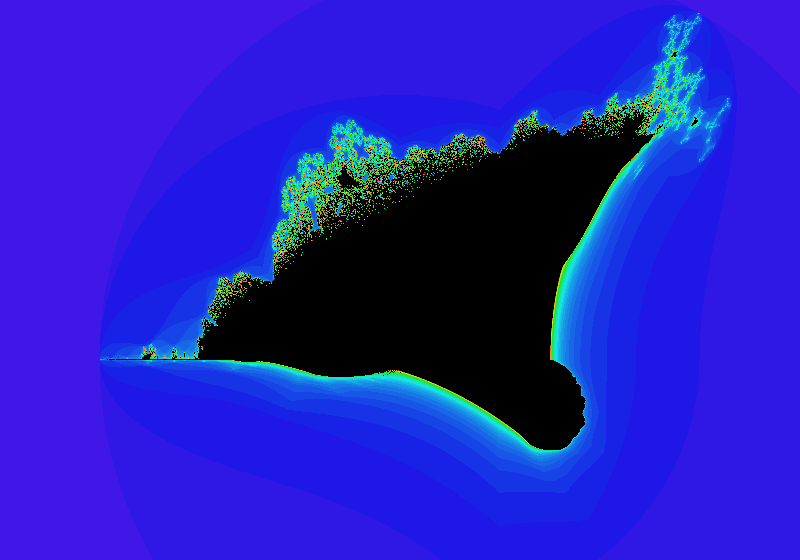
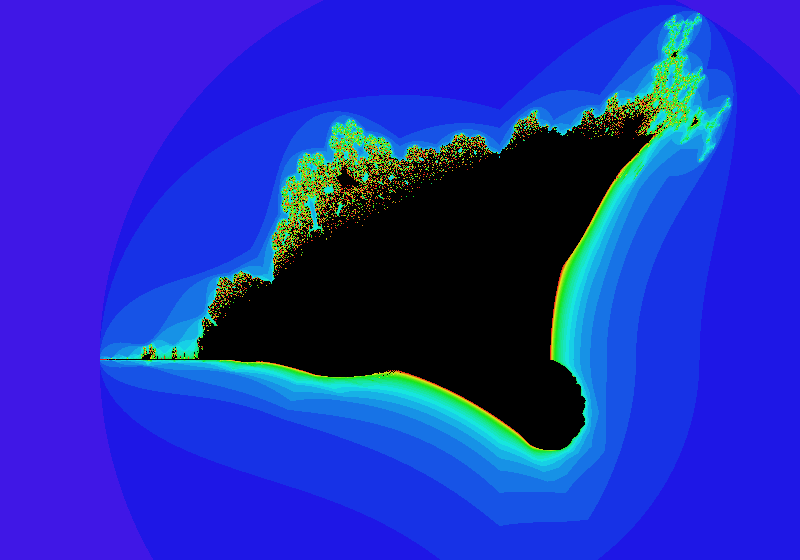
add different coloring modes

diff --git a/src/main/java/plotter/FractalPlotter.java b/src/main/java/plotter/FractalPlotter.java
@@ -17,27 +17,29 @@ public class FractalPlotter
 
 	public void plot(FractalEquation fractalEquation, int maxIterations, String fileName) throws IOException
 	{
-		plot(fractalEquation.recommendedCanvas, fractalEquation, maxIterations, fileName);
+		plot(fractalEquation, fractalEquation.recommendedCanvas, fractalEquation.recommendedColorMode, maxIterations, fileName);
 	}
 
-	public void plot(FractalCanvas fractalCanvas, FractalEquation fractalEquation, int maxIterations, String filename) throws IOException
+	public void plot(FractalEquation fractalEquation, FractalCanvas fractalCanvas, ColorMode colorMode, int maxIterations, String filename) throws IOException
 	{
 		BufferedImage bufferedImage = new BufferedImage(fractalCanvas.imageWidthPixels, fractalCanvas.imageHeightPixels, BufferedImage.TYPE_INT_RGB);
 
-		colourCanvasByDivergenceSpeed(fractalCanvas, fractalEquation, maxIterations, bufferedImage);
+		colourCanvasByDivergenceSpeed(fractalCanvas, fractalEquation, colorMode, maxIterations, bufferedImage);
 
 		writeFile(filename, bufferedImage);
 
 		bufferedImage.flush();
 	}
 
-	private void colourCanvasByDivergenceSpeed(FractalCanvas fractalCanvas, FractalEquation fractalEquation, int maxIterations, BufferedImage bufferedImage)
+	private void colourCanvasByDivergenceSpeed(FractalCanvas fractalCanvas, FractalEquation fractalEquation, ColorMode colorMode, int maxIterations, BufferedImage bufferedImage)
 	{
 		double coordinateX;
 		double coordinateY;
 		int pixelX;
 		int pixelY;
 		Complex c;
+
+		ColorSetter colorSetter = new ColorSetter(colorMode);
 
 		for (coordinateX = fractalCanvas.minX; coordinateX <= fractalCanvas.maxX; coordinateX += fractalCanvas.gridResolution)
 		{
@@ -53,7 +55,7 @@ public class FractalPlotter
 				//on a scale of 0 - 1
 				double divergenceSpeed = 1 - ((double) iterations / (double) maxIterations);
 
-				bufferedImage.setRGB(pixelX, pixelY, getColor(divergenceSpeed).getRGB());
+				bufferedImage.setRGB(pixelX, pixelY, colorSetter.determinePixelRGB(divergenceSpeed));
 			}
 		}
 	}
@@ -74,7 +76,7 @@ public class FractalPlotter
 			return Color.BLACK;
 		}
 
-		double hue = scaleZeroToOne * 0.7; // the 0.7 means we are using hues between red (0) and blue (0.7)
+		double hue = (scaleZeroToOne * scaleZeroToOne) * 0.7; // the 0.7 means we are using hues between red (0) and blue (0.7)
 
 		return Color.getHSBColor((float) hue, (float) 0.9, (float) 0.9);
 	}

diff --git a/src/main/java/plotter/ColorSetter.java b/src/main/java/plotter/ColorSetter.java
@@ -1,0 +1,45 @@
+package plotter;
+
+import java.awt.Color;
+
+public class ColorSetter
+{
+	//if z does not diverge into chaotic behaviour within the max iterations,
+	// it is said it is part of the 'set'
+	public Color isInSetColor = Color.BLACK;
+	public ColorMode colorMode;
+
+	public ColorSetter(ColorMode colorMode)
+	{
+		this.colorMode = colorMode;
+	}
+
+	public int determinePixelRGB(double divergenceSpeed)
+	{
+		return determinePixelColor(divergenceSpeed).getRGB();
+	}
+
+	public Color determinePixelColor(double divergenceSpeed)
+	{
+		if (colorMode != null)
+		{
+			double hue;
+			switch (colorMode)
+			{
+				default:
+				case Binary:
+					if (divergenceSpeed == 0) return Color.BLACK;
+					else return Color.WHITE;
+				case ByDivergenceSpeed:
+					if (divergenceSpeed == 0) return isInSetColor;
+					hue = divergenceSpeed * 0.7; // the 0.7 means we are using hues between red (0) and blue (0.7)
+					break;
+				case ByDivergenceSpeedSquared:
+					if (divergenceSpeed == 0) return isInSetColor;
+					hue = (divergenceSpeed * divergenceSpeed) * 0.7; // the 0.7 means we are using hues between red (0) and blue (0.7)
+			}
+			return Color.getHSBColor((float) hue, (float) 0.9, (float) 0.9);
+		}
+		return null;
+	}
+}

diff --git a/src/main/java/App.java b/src/main/java/App.java
@@ -1,6 +1,10 @@
 import java.io.IOException;
 
+import org.apache.commons.math3.complex.Complex;
+
 import equations.BurningShip;
+import equations.Julia;
+import equations.Mandelbrot;
 import plotter.FractalPlotter;
 
 public class App
@@ -11,9 +15,9 @@ public class App
 
 		try
 		{
-//			fractalPlotter.plot(new Mandelbrot(), 50, "outputs/mandelbrot.png");
+			fractalPlotter.plot(new Mandelbrot(), 50, "outputs/mandelbrot.png");
 
-//			fractalPlotter.plot(new JuliaSet(new Complex(-0.8, 0.2)), 50, "outputs/julia.png");
+			fractalPlotter.plot(new Julia(new Complex(-0.8, 0.2)), 50, "outputs/julia.png");
 
 			fractalPlotter.plot(new BurningShip(), 50, "outputs/burning_ship.png");
 		}

diff --git a/src/main/java/equations/FractalEquation.java b/src/main/java/equations/FractalEquation.java
@@ -2,6 +2,7 @@ package equations;
 
 import org.apache.commons.math3.complex.Complex;
 
+import plotter.ColorMode;
 import plotter.FractalCanvas;
 
 public abstract class FractalEquation
@@ -10,6 +11,8 @@ public abstract class FractalEquation
 
 	//this is the value at which the divergence threshold is passed
 	public int chaoticThreshold = 2;
+
+	public ColorMode recommendedColorMode = ColorMode.ByDivergenceSpeed;
 
 	// returns the number of iterations needed to escape past the threshold,
 	// or maxIterations if it did not

diff --git a/src/main/java/equations/BurningShip.java b/src/main/java/equations/BurningShip.java
@@ -2,6 +2,7 @@ package equations;
 
 import org.apache.commons.math3.complex.Complex;
 
+import plotter.ColorMode;
 import plotter.FractalCanvas;
 
 // https://en.wikipedia.org/wiki/Burning_Ship_fractal
@@ -10,6 +11,7 @@ public class BurningShip extends FractalEquation
 	public BurningShip()
 	{
 		this.recommendedCanvas = new FractalCanvas(-2.5, 1.5, -1.8, 1, 0.005);
+		this.recommendedColorMode = ColorMode.ByDivergenceSpeedSquared;
 	}
 
 	@Override

diff --git a/src/main/java/equations/Julia.java b/src/main/java/equations/Julia.java
@@ -2,6 +2,7 @@ package equations;
 
 import org.apache.commons.math3.complex.Complex;
 
+import plotter.ColorMode;
 import plotter.FractalCanvas;
 
 // z is initially given by the complex coordinate.
@@ -17,6 +18,7 @@ public class Julia extends FractalEquation
 	{
 		this.polynomial = polynomial;
 		this.recommendedCanvas = new FractalCanvas(-2, 2, -1, 1, 0.0005);
+		this.recommendedColorMode = ColorMode.ByDivergenceSpeedSquared;
 	}
 
 	@Override

diff --git a/src/main/java/equations/Mandelbrot.java b/src/main/java/equations/Mandelbrot.java
@@ -2,6 +2,7 @@ package equations;
 
 import org.apache.commons.math3.complex.Complex;
 
+import plotter.ColorMode;
 import plotter.FractalCanvas;
 
 // The Mandelbrot Set is given by the equation
@@ -13,6 +14,7 @@ public class Mandelbrot extends FractalEquation
 	public Mandelbrot()
 	{
 		this.recommendedCanvas = new FractalCanvas(-2.3, 1, -1.3, 1.3, 0.005);
+		this.recommendedColorMode = ColorMode.ByDivergenceSpeed;
 	}
 
 	@Override

diff --git a/src/main/java/plotter/ColorMode.java b/src/main/java/plotter/ColorMode.java
@@ -1,0 +1,8 @@
+package plotter;
+
+public enum ColorMode
+{
+	Binary,
+	ByDivergenceSpeed,
+	ByDivergenceSpeedSquared
+}

diff --git a/README.md b/README.md
@@ -1,6 +1,6 @@
 ## Fractals plotter
 
-![mandelbrot](https://github.com/niki-ste/fractal-plotter/blob/main/outputs/mandelbrot.png?raw=true)
+![mandelbrot](https://github.com/niki-ste/fractal-plotter/blob/main/outputs/julia.png?raw=true)
 
 A simple app to output digital images (pngs) of fractals, intended to stay close to the maths.
 
